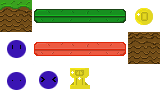
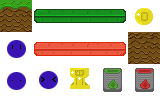
Added power cans

Changed region(s): [[0.625, 0.6875, 0.7812, 0.9688], [0.8438, 0.6875, 0.9688, 0.9688]]

diff --git a/core/src/me/dbecaj/jelloshot/system/CollisionSystem.kt b/core/src/me/dbecaj/jelloshot/system/CollisionSystem.kt
@@ -11,6 +11,7 @@ import me.dbecaj.jelloshot.core.GameAssetManager
 import me.dbecaj.jelloshot.core.GameManager
 import me.dbecaj.jelloshot.core.GamePreferences
 import me.dbecaj.jelloshot.core.GameState
+import java.util.*
 
 @Singleton
 class CollisionSystem @Inject() constructor(
@@ -38,18 +39,20 @@ class CollisionSystem @Inject() constructor(
                             assetManager.deathSound().play(gamePreferences.soundVolume)
                             gameManager.lose()
                         }
-                        /*println("Touching red platfrom")
-                        val centerPos = entity.physics.body.position
-                        val jelly = entity.getComponent(JellyComponent::class.java)
-                        for (body in jelly.bodies) {
-                            // Move outer circles closer to the inner one
-                            val newPos = Vector2(body.position)
-                            newPos.sub(centerPos).scl(0.8F).add(centerPos)
-                            body.setTransform(newPos, body.angle)
-
-                            // Make the outer circles smaller
-                            body.fixtureList[0].shape.radius = body.fixtureList[0].shape.radius * 0.99F;
-                        }*/
+                    }
+                    EntityType.GREEN_CAN -> {
+                        gameManager.launchPower = 3F
+                        val calendar = Calendar.getInstance()
+                        calendar.add(Calendar.SECOND, 30)
+                        gameManager.launchPowerChangeDate = calendar.time
+                        engine.removeEntity(cc)
+                    }
+                    EntityType.RED_CAN -> {
+                        gameManager.launchPower = 4F
+                        val calendar = Calendar.getInstance()
+                        calendar.add(Calendar.SECOND, 30)
+                        gameManager.launchPowerChangeDate = calendar.time
+                        engine.removeEntity(cc)
                     }
                     EntityType.CUP -> {
                         engine.removeEntity(cc)

diff --git a/core/src/me/dbecaj/jelloshot/system/PlayerControllerSystem.kt b/core/src/me/dbecaj/jelloshot/system/PlayerControllerSystem.kt
@@ -13,11 +13,9 @@ import com.google.inject.Inject
 import com.google.inject.Injector
 import com.google.inject.Singleton
 import me.dbecaj.jelloshot.PlayerComponent
-import me.dbecaj.jelloshot.core.GameAssetManager
-import me.dbecaj.jelloshot.core.GamePreferences
-import me.dbecaj.jelloshot.core.LevelBuilder
-import me.dbecaj.jelloshot.core.toVector2
+import me.dbecaj.jelloshot.core.*
 import me.dbecaj.jelloshot.physics
+import java.util.*
 
 @Singleton
 class PlayerControllerSystem @Inject constructor(
@@ -35,9 +33,10 @@ class PlayerControllerSystem @Inject constructor(
         val playerComponent = entity.getComponent(PlayerComponent::class.java)
         if (move) { //&& playerComponent.isOnGround) {
             assetManager.jumpSound().play(gamePreferences.soundVolume)
-            val movementVector = startDragPos.sub(endDragPos).scl(2F)
+            val launchPower = injector.getInstance(GameManager::class.java).launchPower
+            val movementVector = startDragPos.sub(endDragPos).scl(launchPower)
 
-            val vectorLenLimit = 45
+            val vectorLenLimit = launchPower * 22 // 22 is a magic number I tested in game
             // Limit the vector length
             if (movementVector.len() > vectorLenLimit) {
                 movementVector.scl(vectorLenLimit / movementVector.len())
@@ -58,6 +57,12 @@ class PlayerControllerSystem @Inject constructor(
         if (camera.position.x > levelBuilder.levelWidth-23.5F) camera.position.x = levelBuilder.levelWidth - 23.5F
         if (camera.position.y < 7F) camera.position.y  = 7F
         camera.update()
+
+        // Check for the power up timeout
+        val gameManager = injector.getInstance(GameManager::class.java)
+        if (gameManager.launchPower != 2F && gameManager.launchPowerChangeDate.before(Date())) {
+            gameManager.launchPower = 2F
+        }
     }
 
     public val playerInputAdapter = object : InputAdapter() {

diff --git a/core/src/me/dbecaj/jelloshot/core/Hud.kt b/core/src/me/dbecaj/jelloshot/core/Hud.kt
@@ -17,6 +17,8 @@ import com.badlogic.gdx.scenes.scene2d.utils.TextureRegionDrawable
 import com.badlogic.gdx.utils.viewport.FitViewport
 import com.google.inject.Inject
 import com.google.inject.Singleton
+import java.text.SimpleDateFormat
+import java.util.*
 
 @Singleton
 class Hud @Inject() constructor(
@@ -32,7 +34,7 @@ class Hud @Inject() constructor(
     private val table: Table
     private val pauseMenu: Table
     private val scoreLabel: Label
-    private val highscoreLabel: Label
+    private val powerUpLabel: Label
 
     init {
         // Create pause menu
@@ -86,8 +88,9 @@ class Hud @Inject() constructor(
                 })
             }).pad(16F)
             row()
-            highscoreLabel = Label("Highscore: 0", assetManager.uiSkin())
-            add(highscoreLabel).left().top().padLeft(16F).expandX()
+            powerUpLabel = Label("Powerup(GREEN) duration: 00:00:00", assetManager.uiSkin())
+            powerUpLabel.isVisible = false
+            add(powerUpLabel).left().top().padLeft(16F).expandX()
         }
 
         stage.addActor(table)
@@ -95,7 +98,17 @@ class Hud @Inject() constructor(
 
     fun update(deltaTime: Float) {
         scoreLabel.setText("Score: ${gameManager.score}")
-        highscoreLabel.setText("Highscore: ${gamePreferences.highscore}")
+
+        if (gameManager.launchPower > 2F) {
+            powerUpLabel.isVisible = true
+            val powerUpType = if (gameManager.launchPower == 3F) { "GREEN" } else { "RED" }
+            val powerUpDuration = gameManager.launchPowerChangeDate.time - Date().time
+            val dateFormat = SimpleDateFormat("mm:ss")
+            powerUpLabel.setText("Powerup[$powerUpType]: ${dateFormat.format(powerUpDuration)}")
+        }
+        else {
+            powerUpLabel.isVisible = false
+        }
 
         stage.act(deltaTime)
     }

diff --git a/core/src/me/dbecaj/jelloshot/core/GameWorld.kt b/core/src/me/dbecaj/jelloshot/core/GameWorld.kt
@@ -284,6 +284,52 @@ class GameWorld @Inject constructor(
         return entity
     }
 
+    fun createGreenCan(position: Vector2): Entity {
+        val entity = Entity().apply {
+            add(TextureRegionComponent(assetManager.greenCanSprite()))
+            add(TransformComponent(position, 0F, 3F))
+
+            val body = world.createBody(BodyDef().apply {
+                type = BodyDef.BodyType.StaticBody
+            })
+            body.createFixture(PolygonShape().apply {
+                setAsBox(1F, 1F)
+            }, 0F)
+            body.setTransform(transform.position, 0F)
+            body.userData = this
+            add(PhysicsComponent(body))
+
+            add(EntityTypeComponent(EntityType.GREEN_CAN))
+            add(CollisionComponent(null))
+        }
+
+        engine.addEntity(entity)
+        return entity
+    }
+
+    fun createRedCan(position: Vector2): Entity {
+        val entity = Entity().apply {
+            add(TextureRegionComponent(assetManager.redCanSprite()))
+            add(TransformComponent(position, 0F, 3F))
+
+            val body = world.createBody(BodyDef().apply {
+                type = BodyDef.BodyType.StaticBody
+            })
+            body.createFixture(PolygonShape().apply {
+                setAsBox(1F, 1F)
+            }, 0F)
+            body.setTransform(transform.position, 0F)
+            body.userData = this
+            add(PhysicsComponent(body))
+
+            add(EntityTypeComponent(EntityType.RED_CAN))
+            add(CollisionComponent(null))
+        }
+
+        engine.addEntity(entity)
+        return entity
+    }
+
     fun createTriangleMesh(x: Float, y: Float, width: Float, height: Float): Entity {
         val entity = Entity().apply {
             add(TransformComponent(Vector2(x, y), 0F, 3F))

diff --git a/core/src/me/dbecaj/jelloshot/core/GameManager.kt b/core/src/me/dbecaj/jelloshot/core/GameManager.kt
@@ -9,6 +9,7 @@ import com.google.inject.Singleton
 import me.dbecaj.jelloshot.core.screen.ScreenEnum
 import me.dbecaj.jelloshot.core.screen.ScreenManager
 import me.dbecaj.jelloshot.system.PlayerControllerSystem
+import java.util.*
 
 enum class GameState {
     RUNNING,
@@ -26,6 +27,8 @@ class GameManager @Inject() constructor(
 ) {
     var score: Long = 0
     var state = GameState.RUNNING
+    var launchPower = 2F // Is the scalar value we multiply the movement vector for the player
+    var launchPowerChangeDate = Date()
 
     var inputMultiplexer: InputMultiplexer = InputMultiplexer()
 
@@ -58,6 +61,7 @@ class GameManager @Inject() constructor(
             gamePreferences.highscore = score
         }
         score = 0
+        launchPower = 2F
         injector.getInstance(LevelBuilder::class.java).reinitialize()
 
         state = GameState.RESTART
@@ -108,6 +112,7 @@ class GameManager @Inject() constructor(
         }
 
         score = 0
+        launchPower = 2F
         state = GameState.RESTART
         injector.getInstance(Hud::class.java).hidePauseMenu()
 

diff --git a/core/src/me/dbecaj/jelloshot/GameModule.kt b/core/src/me/dbecaj/jelloshot/GameModule.kt
@@ -106,7 +106,13 @@ class GameModule : AbstractModule() {
                             val entity1Type = entity1.getComponent(EntityTypeComponent::class.java).entityType
                             val entity2Type = entity2.getComponent(EntityTypeComponent::class.java).entityType
 
-                            val nonCollidingEntities = arrayOf(EntityType.COIN, EntityType.CUP)
+                            // Set entites to ignore
+                            val nonCollidingEntities = arrayOf(
+                                    EntityType.COIN,
+                                    EntityType.CUP,
+                                    EntityType.GREEN_CAN,
+                                    EntityType.RED_CAN
+                            )
                             if (nonCollidingEntities.contains(entity1Type) || nonCollidingEntities.contains(entity2Type)) {
                                 contact.isEnabled = false
                             }

diff --git a/core/src/me/dbecaj/jelloshot/core/GameAssetManager.kt b/core/src/me/dbecaj/jelloshot/core/GameAssetManager.kt
@@ -100,6 +100,18 @@ class GameAssetManager @Inject constructor() {
         }
     }
 
+    fun greenCanSprite(): TextureRegion {
+        return TextureRegion(assetManager.get(atlasFile, Texture::class.java)).apply {
+            setRegion(3 * 32, 2 * 32, 32, 32)
+        }
+    }
+
+    fun redCanSprite(): TextureRegion {
+        return TextureRegion(assetManager.get(atlasFile, Texture::class.java)).apply {
+            setRegion(4 * 32, 2 * 32, 32, 32)
+        }
+    }
+
     fun loadLevel(file: File) {
         // Check if the level is already loaded
         if (loadedLevelPath == file.path) return

diff --git a/core/src/me/dbecaj/jelloshot/core/LevelBuilder.kt b/core/src/me/dbecaj/jelloshot/core/LevelBuilder.kt
@@ -74,6 +74,8 @@ class LevelBuilder @Inject constructor(
                         6 -> gameWorld.createPlayer(position)
                         7 -> gameWorld.createRedPlatform(position)
                         13 -> gameWorld.createCup(position)
+                        14 -> gameWorld.createGreenCan(position)
+                        15 -> gameWorld.createRedCan(position)
                     }
                 }
             }

diff --git a/core/src/me/dbecaj/jelloshot/Components.kt b/core/src/me/dbecaj/jelloshot/Components.kt
@@ -61,7 +61,9 @@ enum class EntityType {
     GREEN_PLATFORM,
     RED_PLATFORM,
     GROUND,
-    CUP
+    CUP,
+    GREEN_CAN,
+    RED_CAN
 }
 
 class EntityTypeComponent(val entityType: EntityType) : Component {
